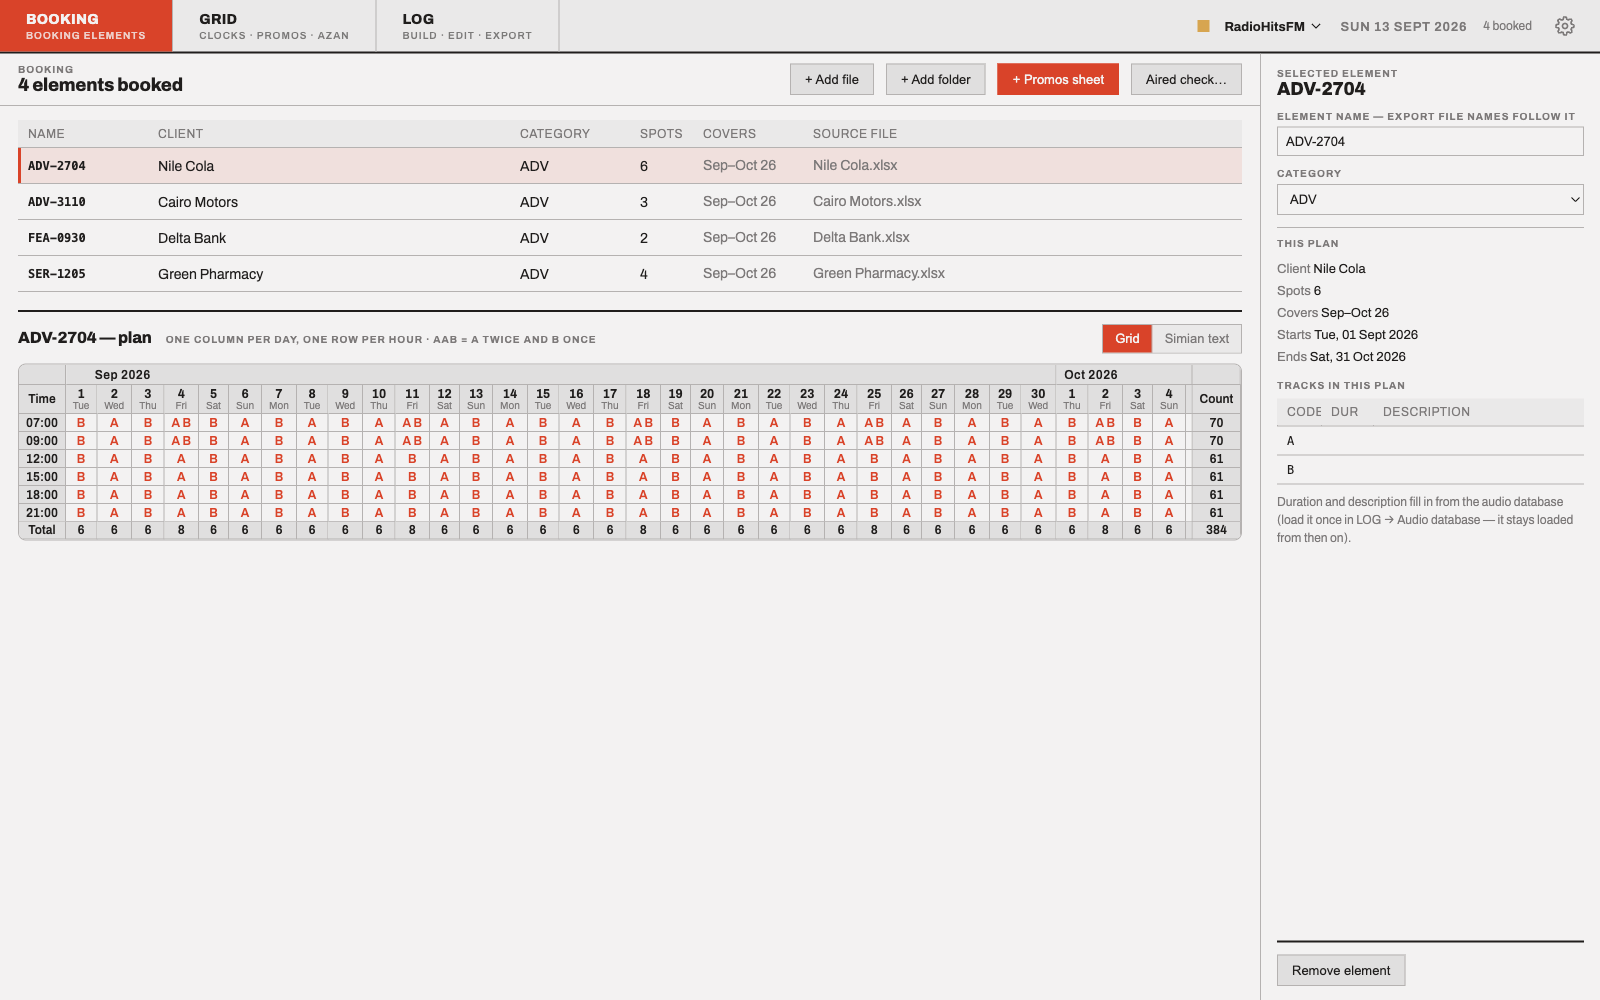
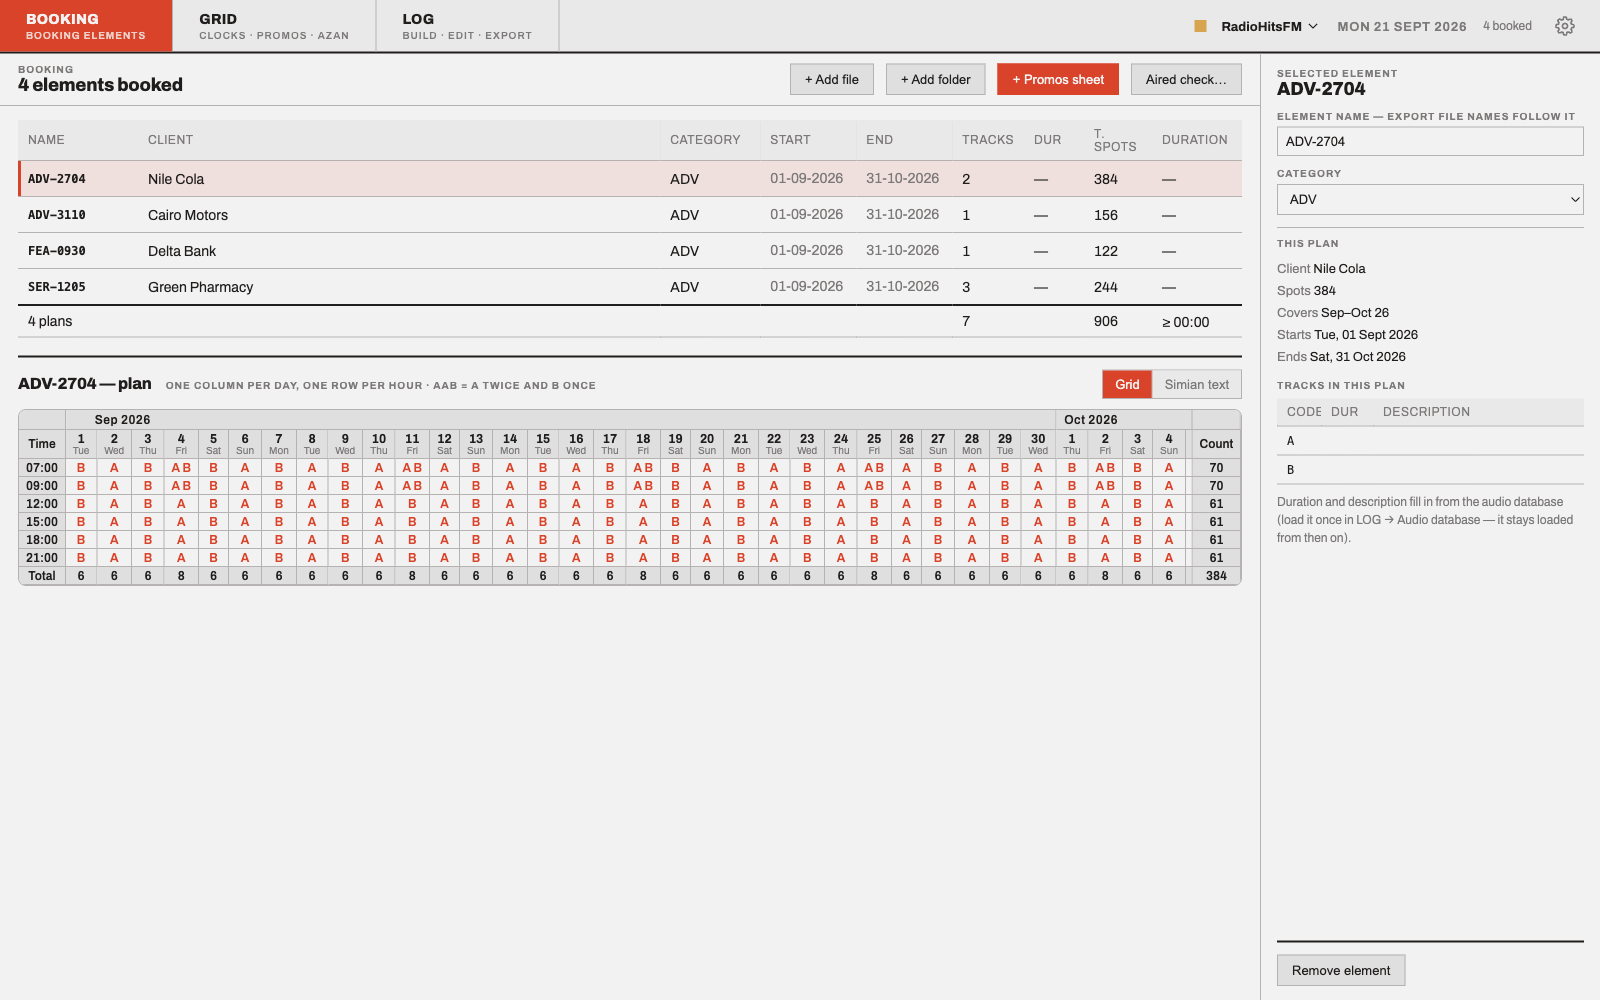
Booking table: plan columns like the station's system, with totals
The plans table now shows what the traffic team reads off their old
system: Name | Client | Category | Start | End | Tracks | Dur |
T. Spots | Duration.

- Start/End as dd-mm-yyyy (the plan's real played span)
- Tracks = distinct track files in the plan; T. Spots = TOTAL booked
  spots across all days (the old Spots column showed time rows)
- Dur = the track length in seconds from the audio database ("Mixed"
  when tracks differ), and Duration = total airtime (spots x length),
  via one batched duration lookup for every plan
- a totals footer sums tracks, spots and airtime across all plans
  (">=" when some track lengths are unknown)

Source file moved into the Name cell's tooltip; the MISSING/UPDATED
tags moved with it. TemplateSummary carries per-track spot counts so
the renderer can price out airtime without loading each plan.

diff --git a/src/renderer/src/views/BookingView.tsx b/src/renderer/src/views/BookingView.tsx
@@ -241,6 +241,83 @@ export function BookingView({ templates, onTemplates, onConfig, categories }: Pr
     window.api.getSimianDb().then((s) => setDbLoaded(Boolean(s)))
   }, [])
 
+  // Track durations for EVERY booked element (the table's Dur / Total Dur
+  // columns) — one batch lookup across all plans.
+  const allTrackNames = useMemo(
+    () => [...new Set(templates.flatMap((t) => (t.tracks ?? []).map((tr) => tr.name)))],
+    [templates]
+  )
+  const [allDur, setAllDur] = useState<Record<string, number>>({})
+  useEffect(() => {
+    if (!dbLoaded || allTrackNames.length === 0) {
+      setAllDur({})
+      return
+    }
+    let gone = false
+    window.api.simianDurations(allTrackNames).then((r) => {
+      if (!gone) setAllDur(r)
+    })
+    return () => {
+      gone = true
+    }
+  }, [dbLoaded, allTrackNames])
+
+  /** Per-track second lengths for a row (rounded; null = not in the DB). */
+  const rowDurations = (t: TemplateSummary): (number | null)[] =>
+    (t.tracks ?? []).map((tr) => {
+      const d = allDur[tr.name]
+      return d != null ? Math.round(d) : null
+    })
+
+  /** The Dur cell: one shared length, `Mixed`, or unknown. */
+  const durLabel = (t: TemplateSummary): string => {
+    const known = rowDurations(t).filter((d): d is number => d != null)
+    if (known.length === 0) return '—'
+    const unique = [...new Set(known)]
+    return unique.length === 1 && known.length === (t.tracks ?? []).length
+      ? String(unique[0])
+      : 'Mixed'
+  }
+
+  /** Total airtime = Σ spots × track length (null while any track is unknown). */
+  const totalDuration = (t: TemplateSummary): number | null => {
+    const tracks = t.tracks ?? []
+    if (tracks.length === 0) return null
+    let sum = 0
+    for (const tr of tracks) {
+      const d = allDur[tr.name]
+      if (d == null) return null
+      sum += tr.spots * Math.round(d)
+    }
+    return sum
+  }
+
+  /** Seconds → `H:MM:SS` / `MM:SS`. */
+  const airtime = (s: number | null): string => {
+    if (s == null) return '—'
+    const h = Math.floor(s / 3600)
+    const m = Math.floor((s % 3600) / 60)
+    const sec = s % 60
+    const p = (n: number): string => String(n).padStart(2, '0')
+    return h > 0 ? `${h}:${p(m)}:${p(sec)}` : `${p(m)}:${p(sec)}`
+  }
+
+  /** `2026-09-01` → `01-09-2026` (the station's plan-table date style). */
+  const ddmmyyyy = (iso: string | null): string => (iso ? iso.split('-').reverse().join('-') : '—')
+
+  const footer = templates.reduce(
+    (f, t) => {
+      const total = totalDuration(t)
+      return {
+        tracks: f.tracks + (t.tracks?.length ?? 0),
+        spots: f.spots + (t.spotCount ?? 0),
+        seconds: total != null ? f.seconds + total : f.seconds,
+        allKnown: f.allKnown && total != null
+      }
+    },
+    { tracks: 0, spots: 0, seconds: 0, allKnown: true }
+  )
+
   useEffect(() => {
     if (!dbLoaded || tracks.length === 0) {
       setTrackInfo({})
@@ -305,12 +382,23 @@ export function BookingView({ templates, onTemplates, onConfig, categories }: Pr
             <table className="tbl dense-book">
               <thead>
                 <tr>
-                  <th style={{ width: 130 }}>Name</th>
+                  <th style={{ width: 120 }}>Name</th>
                   <th>Client</th>
-                  <th style={{ width: 120 }}>Category</th>
-                  <th style={{ width: 60 }}>Spots</th>
-                  <th style={{ width: 110 }}>Covers</th>
-                  <th>Source file</th>
+                  <th style={{ width: 100 }}>Category</th>
+                  <th style={{ width: 96 }}>Start</th>
+                  <th style={{ width: 96 }}>End</th>
+                  <th style={{ width: 60 }} title="Distinct track files in the plan">
+                    Tracks
+                  </th>
+                  <th style={{ width: 60 }} title="Track length in seconds (from the audio DB)">
+                    Dur
+                  </th>
+                  <th style={{ width: 68 }} title="Total booked spots across the whole plan">
+                    T. Spots
+                  </th>
+                  <th style={{ width: 90 }} title="Total airtime — spots × track length">
+                    Duration
+                  </th>
                 </tr>
               </thead>
               <tbody>
@@ -322,15 +410,12 @@ export function BookingView({ templates, onTemplates, onConfig, categories }: Pr
                     }`}
                     onClick={() => setSel(i)}
                   >
-                    <td className="mono-sm" style={{ fontWeight: 700 }}>
+                    <td
+                      className="mono-sm"
+                      style={{ fontWeight: 700 }}
+                      title={`${t.fileName} — ${t.path}`}
+                    >
                       {t.code || '—'}
-                    </td>
-                    <td dir="auto">{t.group || '—'}</td>
-                    <td>{t.category || '—'}</td>
-                    <td>{t.status === 'missing' ? '—' : t.timeCount}</td>
-                    <td className="muted">{coversLabel(t.firstDate, t.lastDate)}</td>
-                    <td className="muted" title={t.path}>
-                      {t.fileName}
                       {t.status === 'missing' && <span className="src-tag missing">MISSING</span>}
                       {t.status === 'changed' && (
                         <span
@@ -341,9 +426,34 @@ export function BookingView({ templates, onTemplates, onConfig, categories }: Pr
                         </span>
                       )}
                     </td>
+                    <td dir="auto">{t.group || '—'}</td>
+                    <td>{t.category || '—'}</td>
+                    <td className="muted num-cell">{ddmmyyyy(t.firstDate)}</td>
+                    <td className="muted num-cell">{ddmmyyyy(t.lastDate)}</td>
+                    <td className="num-cell">{t.status === 'missing' ? '—' : t.tracks.length}</td>
+                    <td className="num-cell">{t.status === 'missing' ? '—' : durLabel(t)}</td>
+                    <td className="num-cell">{t.status === 'missing' ? '—' : t.spotCount}</td>
+                    <td className="num-cell">
+                      {t.status === 'missing' ? '—' : airtime(totalDuration(t))}
+                    </td>
                   </tr>
                 ))}
               </tbody>
+              {templates.length > 1 && (
+                <tfoot>
+                  <tr className="book-total">
+                    <td colSpan={5}>
+                      {templates.length} plan{templates.length === 1 ? '' : 's'}
+                    </td>
+                    <td className="num-cell">{footer.tracks}</td>
+                    <td />
+                    <td className="num-cell">{footer.spots}</td>
+                    <td className="num-cell">
+                      {footer.allKnown ? airtime(footer.seconds) : `≥ ${airtime(footer.seconds)}`}
+                    </td>
+                  </tr>
+                </tfoot>
+              )}
             </table>
           )}
 
@@ -536,7 +646,7 @@ export function BookingView({ templates, onTemplates, onConfig, categories }: Pr
                   <span className="muted">Client</span> <span dir="auto">{selected.group}</span>
                 </div>
                 <div>
-                  <span className="muted">Spots</span> {selected.timeCount}
+                  <span className="muted">Spots</span> {selected.spotCount}
                 </div>
                 <div>
                   <span className="muted">Covers</span>{' '}

diff --git a/src/main/session.ts b/src/main/session.ts
@@ -5,6 +5,7 @@ import {
   parseElementTemplate,
   playedDayColumns,
   templateGrid,
+  trackTokens,
   type ElementTemplate,
   type TemplateGrid
 } from './core/parsers/elementTemplate'
@@ -61,6 +62,10 @@ export interface TemplateSummary {
   group: string
   code: string
   timeCount: number
+  /** Total booked spots across the whole plan (every token of every day). */
+  spotCount: number
+  /** Per track: the export file name and how many spots it plays in total. */
+  tracks: { name: string; spots: number }[]
   category: string
   /** Earliest/latest date the template covers, `YYYY-MM-DD` (null if empty). */
   firstDate: string | null
@@ -405,6 +410,8 @@ class Session {
           group: '',
           code: overrides.code ?? '',
           timeCount: 0,
+          spotCount: 0,
+          tracks: [],
           category: overrides.category ?? '',
           firstDate: null,
           lastDate: null
@@ -415,6 +422,17 @@ class Session {
       const cols = playedDayColumns(template)
       const iso = (c: { year: number; month: number; day: number }): string =>
         `${c.year}-${String(c.month).padStart(2, '0')}-${String(c.day).padStart(2, '0')}`
+      // Total spots per track file across the whole plan (`1` = the bare code).
+      const spotsByTrack = new Map<string, number>()
+      for (const row of template.timeRows) {
+        for (const raw of row.tracks.values()) {
+          for (const token of trackTokens(raw)) {
+            const name = token === '1' ? template.code : `${template.code}-${token}`
+            spotsByTrack.set(name, (spotsByTrack.get(name) ?? 0) + 1)
+          }
+        }
+      }
+      const tracks = [...spotsByTrack].map(([name, spots]) => ({ name, spots }))
       return {
         fileName,
         path,
@@ -422,6 +440,8 @@ class Session {
         group: template.group,
         code: template.code,
         timeCount: template.timeRows.length,
+        spotCount: tracks.reduce((n, t) => n + t.spots, 0),
+        tracks,
         category: template.category ?? '',
         firstDate: cols.length ? iso(cols[0]) : null,
         lastDate: cols.length ? iso(cols[cols.length - 1]) : null

diff --git a/src/renderer/src/styles.css b/src/renderer/src/styles.css
@@ -756,6 +756,17 @@ body {
   display: grid;
   grid-template-columns: minmax(0, 1fr) 340px;
 }
+/* Numeric plan-table cells line up their digits. */
+.num-cell {
+  font-variant-numeric: tabular-nums;
+  white-space: nowrap;
+}
+/* Totals footer under the plans (tracks / spots / total airtime). */
+.book-total td {
+  border-top: 2px solid var(--rule-strong);
+  font-weight: 700;
+  color: var(--text);
+}
 .book-row {
   cursor: pointer;
 }
